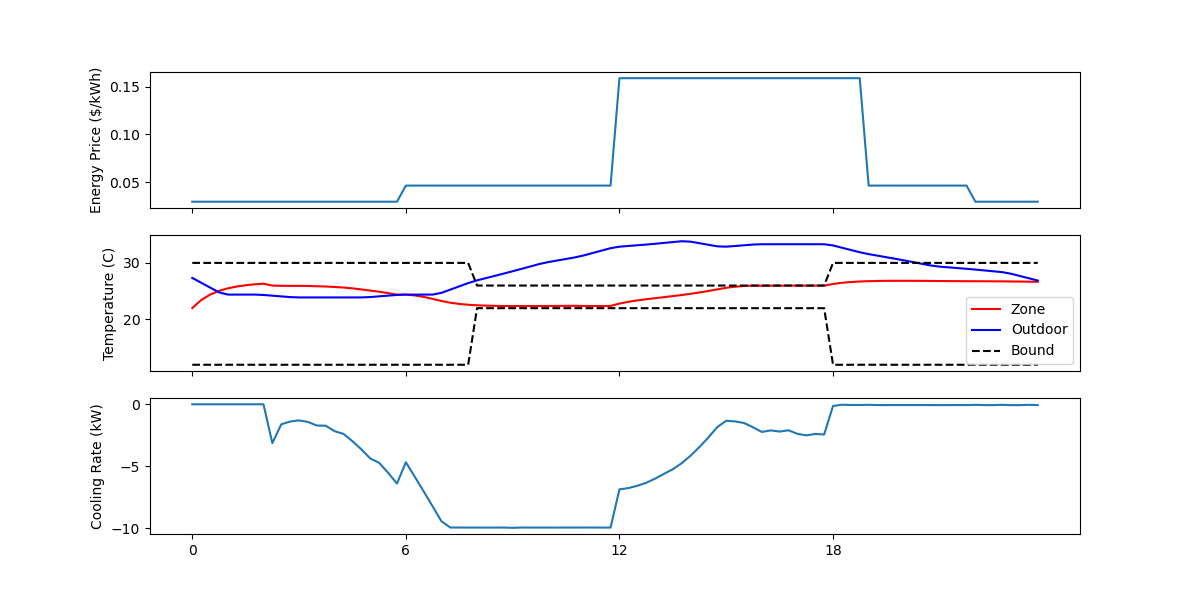
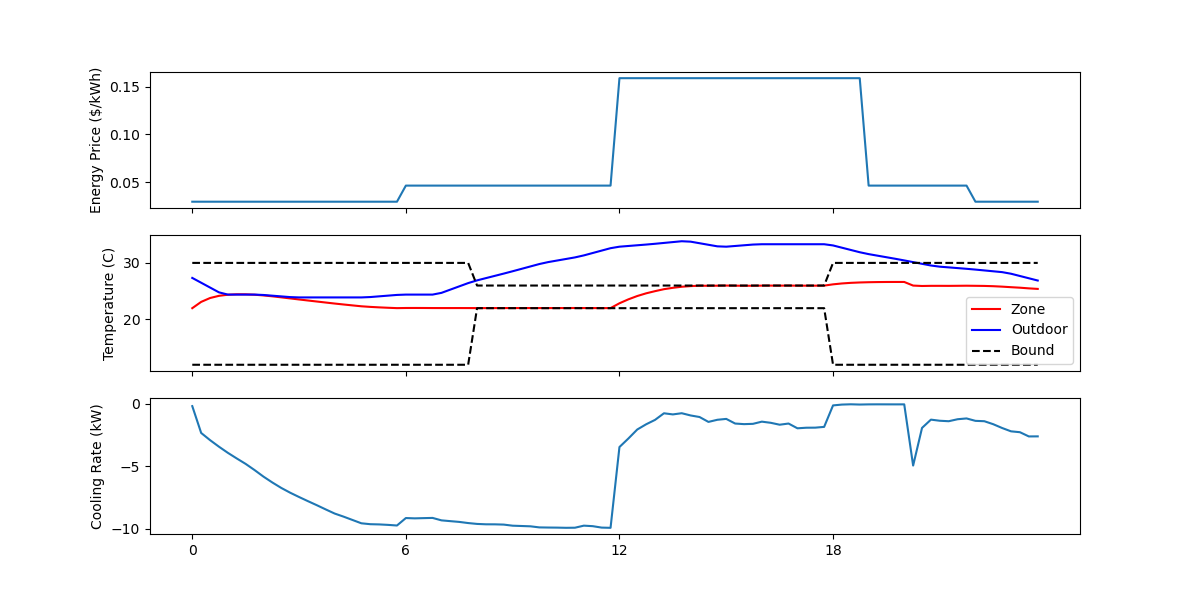
update mpc jax implementation and results

diff --git a/resources/tutorials/jax/optimal_control_mpc_jit.py b/resources/tutorials/jax/optimal_control_mpc_jit.py
@@ -98,7 +98,7 @@ class MPC():
         # call optimizer to minimize loss
         lr = 0.01
         tolerance = 1e-06
-        n_epochs = 1000
+        n_epochs = 5000
         optimizer = optax.adamw(learning_rate = lr)
         #u0 = jnp.zeros([self.PH, 1])
         u0 = self.u_start
@@ -123,7 +123,7 @@ class MPC():
             params, opt_state, u_ph, loss, grads = _fit_step(
                 params, opt_state, state, ts, te, dt, disturbance, T_ub_ph, T_lb_ph, price_ph, zone_model, ode_solver, u_ub, u_lb, PH, optimizer)
 
-            if epoch % 10 == 0:
+            if epoch % 100 == 0:
                 print(f'epoch {epoch}, training loss: {loss}')
             #print(f'epoch {epoch}, training loss: {loss}, relative loss: {rel_error}')
 
@@ -293,7 +293,7 @@ if __name__ == '__main__':
     print(n_devices)
 
     # MPC setting
-    PH = 24
+    PH = 48
     CH = 1
     dt = 900
     nsteps_per_hour = int(3600 / dt)
@@ -313,7 +313,8 @@ if __name__ == '__main__':
 
     # Experiment settings
     ts = 195*24*3600
-    te = 1*24*3600 + ts
+    ndays = 7
+    te = ndays*24*3600 + ts
 
     # get predictor
     predictor = {}
@@ -343,6 +344,7 @@ if __name__ == '__main__':
     u_opt  = []
     Tz_opt = []
     To_opt = []
+    
     # main loop
     for t in range(ts, te, dt):
         
@@ -379,13 +381,15 @@ if __name__ == '__main__':
         # measurements
         Tz_opt.append(float(state[0]))
         To_opt.append(float(dist_t[0,0]))
-
+    
     # plot some figures
     # process prices 24 -> 96 in this case
     price_dt = price.reshape(-1,1)
     for step in range(nsteps_per_hour-1):
         price_dt = jnp.concatenate((price_dt, price.reshape(-1,1)), axis=1)
-    
+    price_dt = jnp.repeat(price_dt.reshape(1,-1), ndays, axis=0).reshape(-1,1)
+ 
+
     # temp bounds
     T_ub = mpc.T_ub
     T_lb = mpc.T_lb
@@ -394,21 +398,23 @@ if __name__ == '__main__':
     for step in range(nsteps_per_hour-1):
         T_ub_dt = jnp.concatenate((T_ub_dt, T_ub.reshape(-1, 1)), axis=1)
         T_lb_dt = jnp.concatenate((T_lb_dt, T_lb.reshape(-1, 1)), axis=1)
+    T_ub_dt = jnp.repeat(T_ub_dt.reshape(1,-1), ndays, axis=0).reshape(-1,1)
+    T_lb_dt = jnp.repeat(T_lb_dt.reshape(1,-1), ndays, axis=0).reshape(-1,1)
 
-    xticks = range(0,24*nsteps_per_hour, 6*nsteps_per_hour)
-    xticklabels = range(0, 24, 6)
+    xticks = range(0,24*nsteps_per_hour*ndays, 6*nsteps_per_hour)
+    xticklabels = range(0, 24*ndays, 6)
 
     plt.figure(figsize=(12,6))
     plt.subplot(3,1,1)
-    plt.plot(price_dt.flatten())
+    plt.plot(price_dt)
     plt.xticks(xticks,[])
     plt.ylabel("Energy Price ($/kWh)")
 
     plt.subplot(3,1,2)
     plt.plot(Tz_opt, 'r-', label="Zone")
     plt.plot(To_opt, 'b-', label="Outdoor")
-    plt.plot(T_ub_dt.flatten(), 'k--', label="Bound")
-    plt.plot(T_lb_dt.flatten(), 'k--')
+    plt.plot(T_ub_dt, 'k--', label="Bound")
+    plt.plot(T_lb_dt, 'k--')
     plt.ylabel("Temperature (C)")
     plt.xticks(xticks, [])
     plt.legend()
@@ -417,13 +423,13 @@ if __name__ == '__main__':
     plt.plot(u_opt)
     plt.ylabel("Cooling Rate (kW)")
     plt.xticks(xticks, xticklabels)
-    plt.savefig('mpc.png')
+    plt.savefig("mpc_"+str(PH)+".png")
 
     # save some kpis
     energy_cost = jnp.sum(price_dt.flatten()*jnp.abs(jnp.array(u_opt))*dt/3600)
     energy = jnp.sum(jnp.abs(jnp.array(u_opt))*dt/3600)
-    dT_lb = jnp.maximum(0, T_lb_dt.flatten() - jnp.array(Tz_opt))
-    dT_ub = jnp.maximum(0, jnp.array(Tz_opt) - T_ub_dt.flatten())
+    dT_lb = jnp.maximum(0, T_lb_dt - jnp.array(Tz_opt).reshape(-1,1))
+    dT_ub = jnp.maximum(0, jnp.array(Tz_opt).reshape(-1,1) - T_ub_dt)
     dT_max = jnp.max(dT_lb + dT_ub)
     dTh = (jnp.sum(dT_lb) + jnp.sum(dT_ub))*dt/3600
 
@@ -433,5 +439,5 @@ if __name__ == '__main__':
     kpi['dT_max'] = float(dT_max)
     kpi['dTh'] = float(dTh)
 
-    with open("mpc_kpi.json", 'w') as file:
+    with open("mpc_kpi_"+str(PH)+".json", 'w') as file:
         json.dump(kpi, file)
